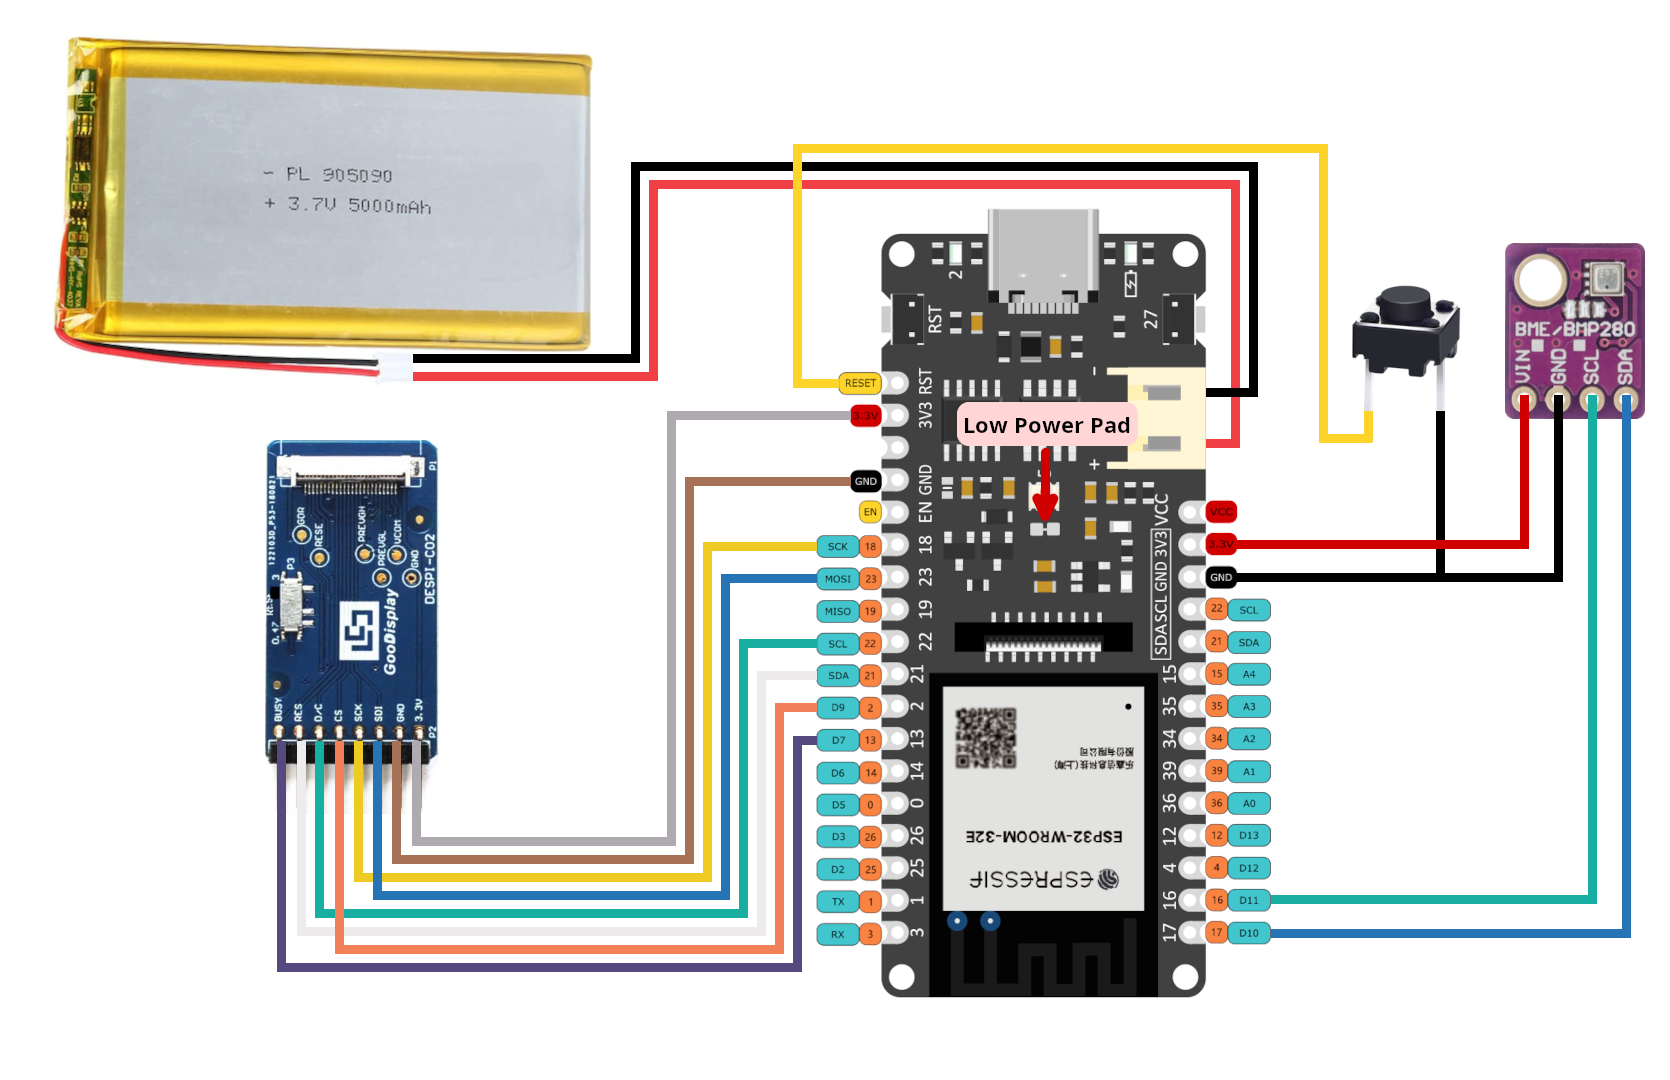
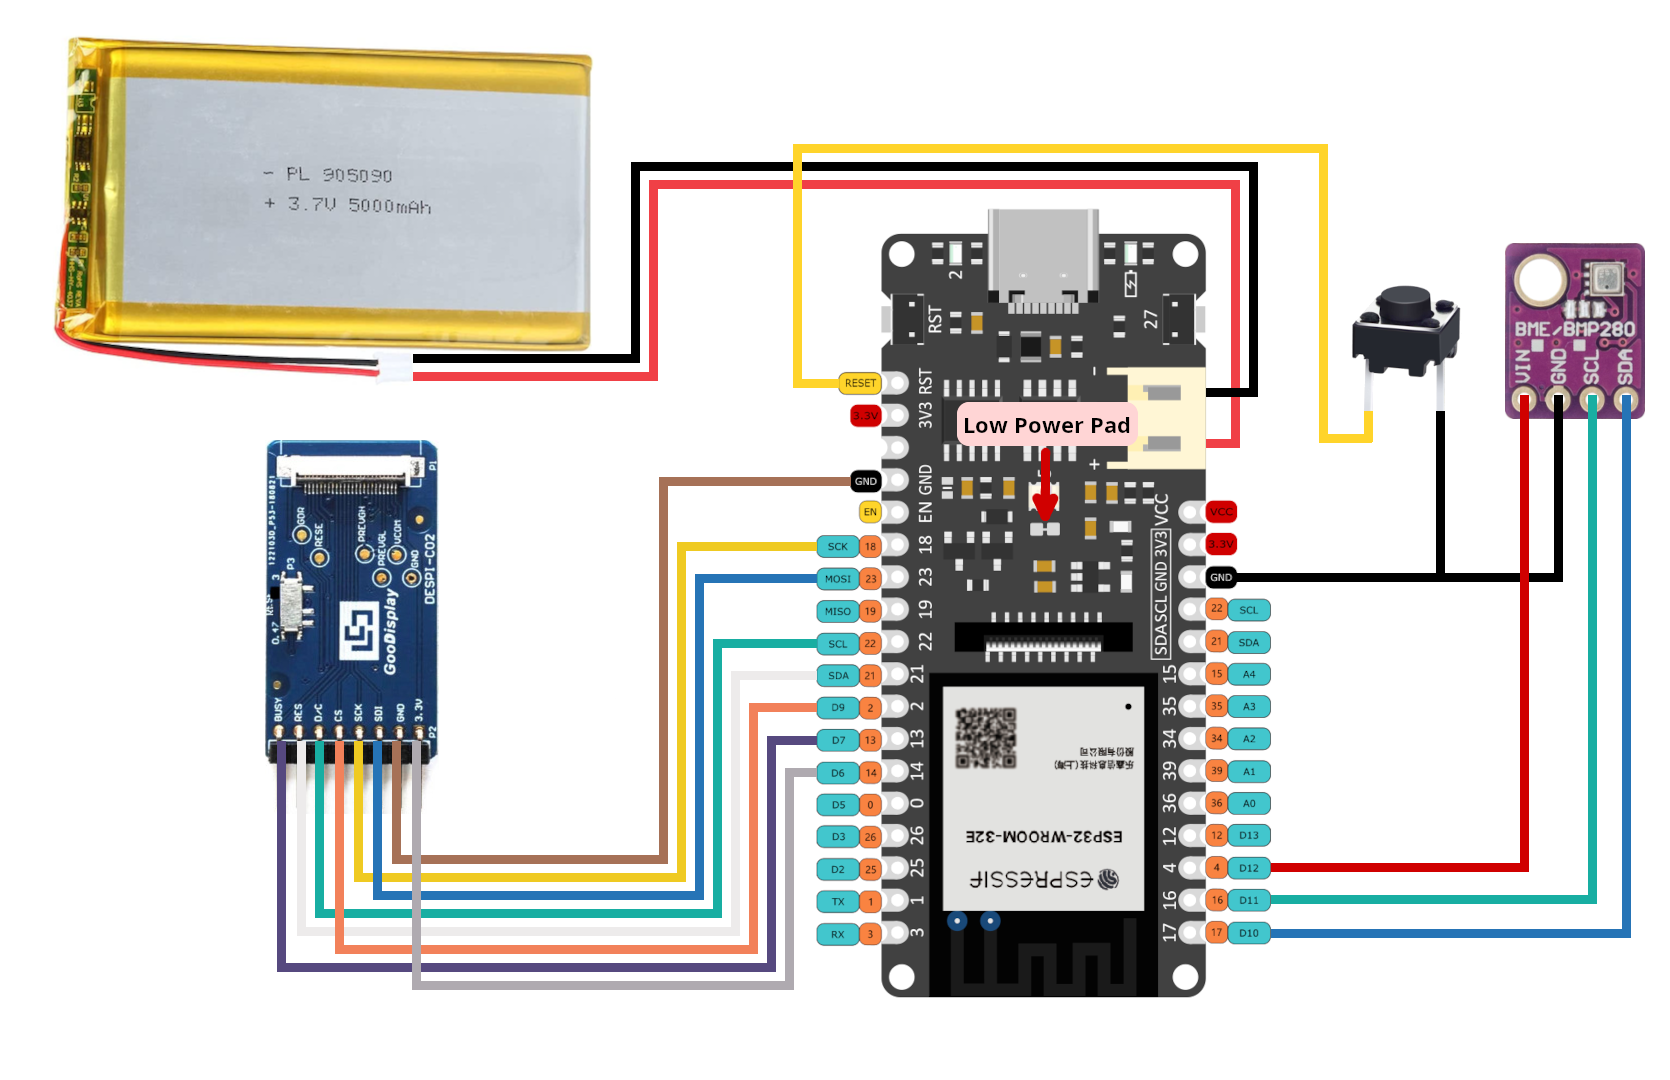
low power improvements, display and bme now powered off GPIO pins

Changed region(s): [[0.2491, 0.3972, 0.4982, 0.9167], [0.7473, 0.4889, 0.9341, 0.825], [0.4048, 0.3667, 0.4982, 0.3972]]

diff --git a/platformio/src/main.cpp b/platformio/src/main.cpp
@@ -18,6 +18,7 @@
 #include <Arduino.h>
 #include <Adafruit_BME280.h>
 #include <Adafruit_Sensor.h>
+#include <driver/adc.h>
 #include <Preferences.h>
 #include <time.h>
 #include <WiFi.h>
@@ -127,6 +128,8 @@ void setup()
   printHeapUsage();
 #endif
 
+  disableBuiltinLED();
+
   // Open namespace for read/write to non-volatile storage
   prefs.begin(NVS_NAMESPACE, false);
 
@@ -134,8 +137,10 @@ void setup()
   // GET BATTERY VOLTAGE
   // DFRobot FireBeetle Esp32-E V1.0 has voltage divider (1M+1M), so readings
   // are multiplied by 2. Readings are divided by 1000 to convert mV to V.
-  double batteryVoltage =
-            static_cast<double>(analogRead(PIN_BAT_ADC)) / 1000.0 * (3.5 / 2.0);
+  adc_power_acquire();
+  uint16_t batADC = analogRead(PIN_BAT_ADC);
+  adc_power_release();
+  double batteryVoltage = static_cast<double>(batADC) / 1000.0 * (3.5 / 2.0);
             // use / 1000.0 * (3.3 / 2.0) multiplier above for firebeetle esp32
             // use / 1000.0 * (3.5 / 2.0) for firebeetle esp32-E
   Serial.println("Battery voltage: " + String(batteryVoltage, 2));
@@ -158,7 +163,7 @@ void setup()
       {
         drawError(battery_alert_0deg_196x196, "Low Battery", "");
       } while (display.nextPage());
-      display.powerOff();
+      powerOffDisplay();
     }
 
     if (batteryVoltage <= CRIT_LOW_BATTERY_VOLTAGE)
@@ -225,7 +230,7 @@ void setup()
         drawError(wifi_x_196x196, "WiFi Connection", "Failed");
       } while (display.nextPage());
     }
-    display.powerOff();
+    powerOffDisplay();
     beginDeepSleep(startTime, &timeInfo);
   }
 
@@ -241,7 +246,7 @@ void setup()
     {
       drawError(wi_time_4_196x196, "Time Synchronization", "Failed");
     } while (display.nextPage());
-    display.powerOff();
+    powerOffDisplay();
     beginDeepSleep(startTime, &timeInfo);
   }
 
@@ -266,7 +271,7 @@ void setup()
     {
       drawError(wi_cloud_down_196x196, statusStr, tmpStr);
     } while (display.nextPage());
-    display.powerOff();
+    powerOffDisplay();
     beginDeepSleep(startTime, &timeInfo);
   }
   rxStatus = getOWMairpollution(client, owm_air_pollution);
@@ -280,12 +285,14 @@ void setup()
     {
       drawError(wi_cloud_down_196x196, statusStr, tmpStr);
     } while (display.nextPage());
-    display.powerOff();
+    powerOffDisplay();
     beginDeepSleep(startTime, &timeInfo);
   }
   killWiFi(); // WiFi no longer needed
 
   // GET INDOOR TEMPERATURE AND HUMIDITY, start BME280...
+  pinMode(PIN_BME_PWR, OUTPUT);
+  digitalWrite(PIN_BME_PWR, HIGH);
   float inTemp     = NAN;
   float inHumidity = NAN;
   Serial.print("Reading from BME280... ");
@@ -317,6 +324,7 @@ void setup()
     statusStr = "BME not found"; // check wiring
     Serial.println(statusStr);
   }
+  digitalWrite(PIN_BME_PWR, LOW);
 
   String refreshTimeStr;
   getRefreshTimeStr(refreshTimeStr, timeConfigured, &timeInfo);
@@ -337,7 +345,7 @@ void setup()
 #endif
     drawStatusBar(statusStr, refreshTimeStr, wifiRSSI, batteryVoltage);
   } while (display.nextPage());
-  display.powerOff();
+  powerOffDisplay();
 
   // DEEP-SLEEP
   beginDeepSleep(startTime, &timeInfo);

diff --git a/platformio/src/renderer.cpp b/platformio/src/renderer.cpp
@@ -224,6 +224,8 @@ void drawMultiLnString(int16_t x, int16_t y, const String &text,
  */
 void initDisplay()
 {
+  pinMode(PIN_EPD_PWR, OUTPUT);
+  digitalWrite(PIN_EPD_PWR, HIGH);
   display.init(115200, true, 2, false);
   SPI.begin(PIN_EPD_SCK,
             PIN_EPD_MISO,
@@ -237,6 +239,16 @@ void initDisplay()
   // display.fillScreen(GxEPD_WHITE);
   display.setFullWindow();
   display.firstPage(); // use paged drawing mode, sets fillScreen(GxEPD_WHITE)
+  return;
+} // end initDisplay
+
+/* Power-off e-paper display
+ */
+void powerOffDisplay()
+{
+  display.powerOff();
+  digitalWrite(PIN_EPD_PWR, LOW);
+  return;
 } // end initDisplay
 
 /* This function is responsible for drawing the current conditions and
@@ -1085,8 +1097,10 @@ void drawStatusBar(const String &statusStr, const String &refreshTimeStr,
   if (batVoltage < BATTERY_WARN_VOLTAGE) {
     dataColor = ACCENT_COLOR;
   }
-  dataStr = String(batPercent) + "% ("
-            + String( round(100.0 * batVoltage) / 100.0, 2 ) + "v)";
+  dataStr = String(batPercent) + "%";
+#if STATUS_BAR_EXTRAS_BAT_VOLTAGE
+  dataStr += " (" + String( round(100.0 * batVoltage) / 100.0, 2 ) + "v)";
+#endif
   drawString(pos, DISP_HEIGHT - 1 - 2, dataStr, RIGHT, dataColor);
   pos -= getStringWidth(dataStr) + 25;
   display.drawInvertedBitmap(pos, DISP_HEIGHT - 1 - 17,
@@ -1097,10 +1111,12 @@ void drawStatusBar(const String &statusStr, const String &refreshTimeStr,
   // WiFi
   dataStr = String(getWiFidesc(rssi));
   dataColor = rssi >= -70 ? GxEPD_BLACK : ACCENT_COLOR;
+#if STATUS_BAR_EXTRAS_WIFI_RSSI
   if (rssi != 0)
   {
     dataStr += " (" + String(rssi) + "dBm)";
   }
+#endif
   drawString(pos, DISP_HEIGHT - 1 - 2, dataStr, RIGHT, dataColor);
   pos -= getStringWidth(dataStr) + 19;
   display.drawInvertedBitmap(pos, DISP_HEIGHT - 1 - 13, getWiFiBitmap16(rssi),

diff --git a/platformio/include/config.h b/platformio/include/config.h
@@ -199,6 +199,12 @@
 //   Disable alerts by changing the DISPLAY_ALERTS macro to 0.
 #define DISPLAY_ALERTS 1
 
+// STATUS BAR EXTRAS
+//   Extra information that can be displayed on the status bar. Set to 1 to
+//   enable.
+#define STATUS_BAR_EXTRAS_BAT_VOLTAGE 0
+#define STATUS_BAR_EXTRAS_WIFI_RSSI   0
+
 // BATTERY MONITORING
 //   You may choose to power your whether display with or without a battery.
 //   Low power behavior can be controlled in config.cpp.
@@ -223,8 +229,10 @@ extern const uint8_t PIN_EPD_DC;
 extern const uint8_t PIN_EPD_SCK;
 extern const uint8_t PIN_EPD_MISO;
 extern const uint8_t PIN_EPD_MOSI;
+extern const uint8_t PIN_EPD_PWR;
 extern const uint8_t PIN_BME_SDA;
 extern const uint8_t PIN_BME_SCL;
+extern const uint8_t PIN_BME_PWR;
 extern const uint8_t BME_ADDRESS;
 extern const char *WIFI_SSID;
 extern const char *WIFI_PASSWORD;

diff --git a/platformio/src/display_utils.cpp b/platformio/src/display_utils.cpp
@@ -1667,3 +1667,15 @@ const char *getWifiStatusPhrase(wl_status_t status)
   default:  return "";
   }
 } // end getWifiStatusPhrase
+
+/* This function sets the builtin LED to LOW and disables it even during deep
+ * sleep.
+ */
+void disableBuiltinLED()
+{
+  pinMode(LED_BUILTIN, OUTPUT);
+  digitalWrite(LED_BUILTIN, LOW);
+  gpio_hold_en(static_cast<gpio_num_t>(LED_BUILTIN));
+  gpio_deep_sleep_hold_en();
+  return;
+} // end disableBuiltinLED

diff --git a/platformio/include/renderer.h b/platformio/include/renderer.h
@@ -69,6 +69,7 @@ void drawMultiLnString(int16_t x, int16_t y, const String &text,
                        uint16_t max_lines, int16_t line_spacing,
                        uint16_t color=GxEPD_BLACK);
 void initDisplay();
+void powerOffDisplay();
 void drawCurrentConditions(const owm_current_t &current,
                            const owm_daily_t &today,
                            const owm_resp_air_pollution_t &owm_air_pollution,

diff --git a/platformio/include/display_utils.h b/platformio/include/display_utils.h
@@ -73,6 +73,7 @@ const uint8_t *getWindBitmap24(int windDeg);
 const char *getHttpResponsePhrase(int code);
 const char *getWifiStatusPhrase(wl_status_t status);
 void printHeapUsage();
+void disableBuiltinLED();
 
 #endif
 
